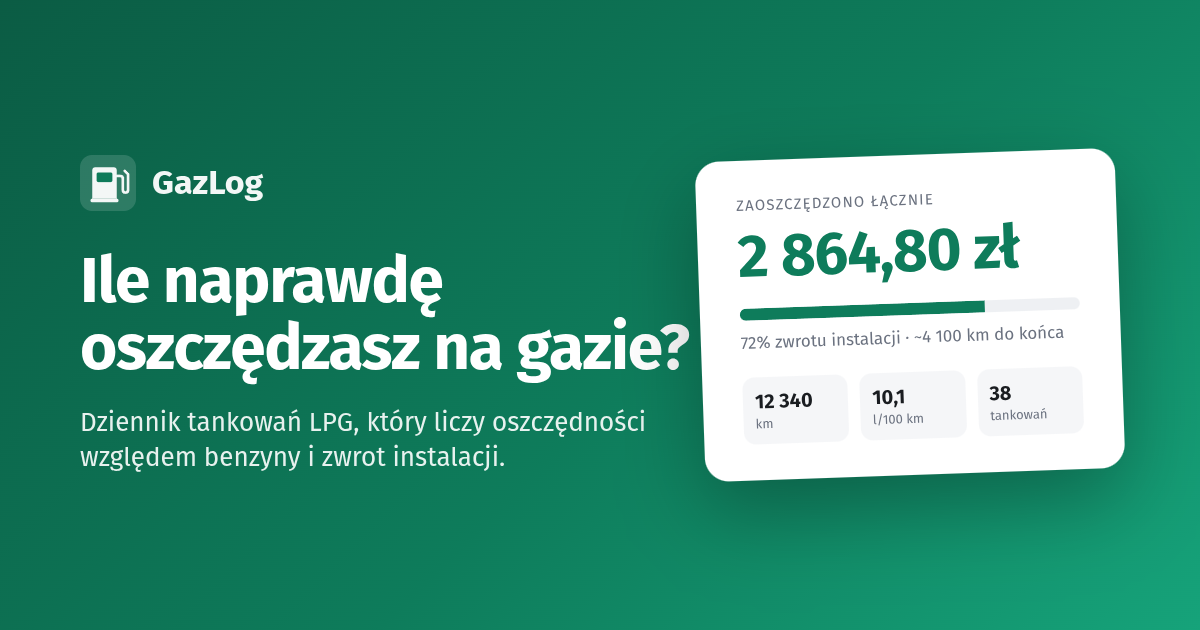
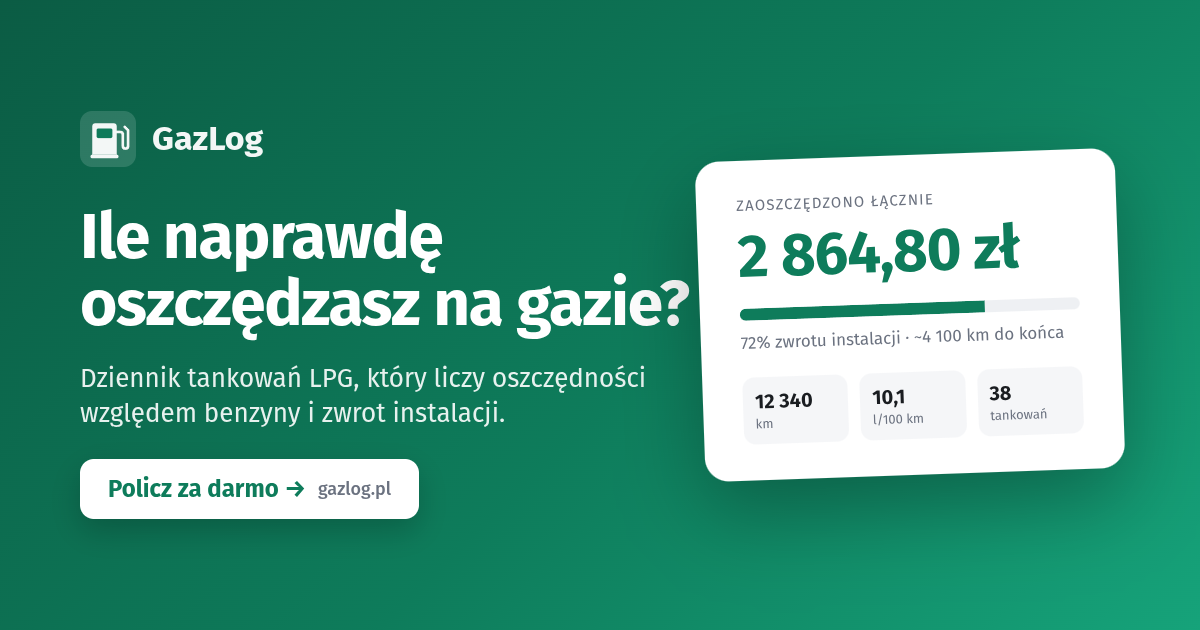
Tighten SEO title/descriptions and add a CTA to the share image

Changed region(s): [[0.0617, 0.1508, 0.5858, 0.8444]]

diff --git a/client/index.html b/client/index.html
@@ -3,8 +3,8 @@
   <head>
     <meta charset="UTF-8" />
     <meta name="viewport" content="width=device-width, initial-scale=1.0" />
-    <title>GazLog – ile oszczędzasz na LPG? Kalkulator i dziennik tankowań</title>
-    <meta name="description" content="Zapisuj tankowania LPG i zobacz, ile realnie oszczędzasz względem benzyny. GazLog liczy koszt gazu, koszt benzyny za ten sam dystans i zwrot instalacji LPG. Darmowo, bez reklam." />
+    <title>GazLog – kalkulator oszczędności na LPG</title>
+    <meta name="description" content="Zapisuj tankowania LPG i zobacz, ile realnie oszczędzasz względem benzyny. GazLog liczy koszt gazu, benzyny i zwrot instalacji. Darmowo." />
     <meta name="keywords" content="LPG, oszczędności LPG, kalkulator LPG, instalacja gazowa zwrot, spalanie LPG, dziennik tankowań, autogaz, LPG vs benzyna" />
     <meta name="author" content="GazLog" />
     <meta name="robots" content="index, follow" />
@@ -22,7 +22,7 @@
     <meta property="og:locale" content="pl_PL" />
     <meta property="og:url" content="%GAZLOG_ORIGIN%/" />
     <meta property="og:title" content="GazLog – ile naprawdę oszczędzasz na gazie?" />
-    <meta property="og:description" content="Jedno tankowanie, cztery liczby, zero arkuszy. GazLog liczy oszczędności LPG względem benzyny i pokazuje, kiedy instalacja się spłaci." />
+    <meta property="og:description" content="Dziennik tankowań LPG. Liczy oszczędności względem benzyny i pokazuje, kiedy instalacja się spłaci." />
     <meta property="og:image" content="%GAZLOG_ORIGIN%/og.png" />
     <meta property="og:image:width" content="1200" />
     <meta property="og:image:height" content="630" />
@@ -30,7 +30,7 @@
 
     <meta name="twitter:card" content="summary_large_image" />
     <meta name="twitter:title" content="GazLog – ile naprawdę oszczędzasz na gazie?" />
-    <meta name="twitter:description" content="Dziennik tankowań LPG, który liczy oszczędności względem benzyny i zwrot instalacji." />
+    <meta name="twitter:description" content="Dziennik tankowań LPG. Liczy oszczędności względem benzyny i zwrot instalacji." />
     <meta name="twitter:image" content="%GAZLOG_ORIGIN%/og.png" />
 
     <script type="application/ld+json">
